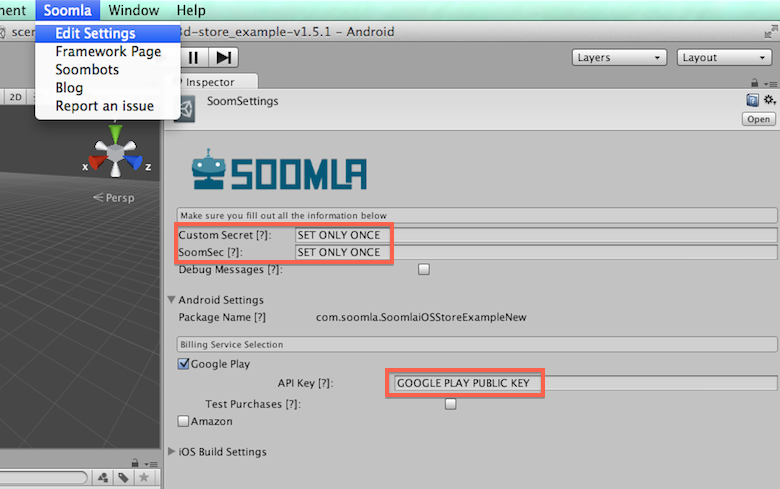
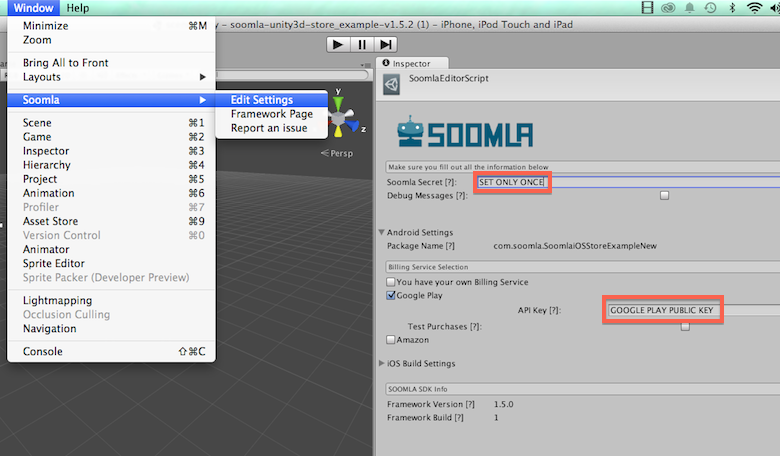
small changes

diff --git a/src/documents/docs/platforms/ios/GettingStarted.html.md b/src/documents/docs/platforms/ios/GettingStarted.html.md
@@ -16,18 +16,14 @@ Before doing anything, SOOMLA recommends that you go through [Selling with In-Ap
 
 <div class="info-box">We use ARC! Read about ARC [here](http://www.google.com/url?q=http%3A%2F%2Fen.wikipedia.org%2Fwiki%2FAutomatic_Reference_Counting&sa=D&sntz=1&usg=AFQjCNHaQBd32glc8dP7HSzlvW1RhjInQA).</div>
 
-1. Clone ios-store. Copy all files from ../ios-store/SoomlaiOSStore/SoomlaiOSStore into your iOS project:
-
- `git clone git@github.com:soomla/ios-store.git`
-
-2. The static libs and headers you need are in the folder build.
+1. The static libs and headers you need are in the [build](https://github.com/soomla/ios-store/tree/master/build) folder.
 
     - Set your project's "Library Search Paths" and "Header Search Paths" to that folder.
     - Add `-ObjC -lSoomlaiOSStore -lSoomlaiOSCore` to the project's "Other Linker Flags".
 
-3. Make sure you have the following frameworks in your application's project: **Security, libsqlite3.0.dylib, StoreKit**.
+2. Make sure you have the following frameworks in your application's project: **Security, libsqlite3.0.dylib, StoreKit**.
 
-4. Initialize Soomla with a secret that you chose to encrypt the user data. (For those who came from older versions, this should be the same as the old "custom secret"):
+3. Initialize `Soomla` with a secret that you chose to encrypt the user data saved in the DB. (For those who came from older versions, this should be the same as the old "custom secret"):
 
     ``` objectivec
     [Soomla initializeWithSecret:@"[YOUR CUSTOM GAME SECRET HERE]"];
@@ -35,11 +31,11 @@ Before doing anything, SOOMLA recommends that you go through [Selling with In-Ap
 
     <div class="info-box">The secret is your encryption secret for data saved in the DB.</div>
 
-5. Create your own implementation of `IStoreAssets` in order to describe your game's specific assets.
+4. Create your own implementation of `IStoreAssets` in order to describe your game's specific assets.
   - For a brief example, see the [example](#example) at the bottom.
-  - For a more detailed example, see our MuffinRush [example](https://github.com/soomla/ios-store/blob/master/SoomlaiOSStoreExample/SoomlaiOSStoreExample/MuffinRushAssets.m).
+  - For a more detailed example, see our [Muffin Rush Example](https://github.com/soomla/ios-store/blob/master/SoomlaiOSStoreExample/SoomlaiOSStoreExample/MuffinRushAssets.m).
 
-6. Initialize `SoomlaStore` with the class you just created:
+5. Initialize `SoomlaStore` with the class you just created:
 
     ``` objectivec
     [[SoomlaStore getInstance] initializeWithStoreAssets:[[YourStoreAssetsImplementation alloc] init]];
@@ -49,17 +45,11 @@ Before doing anything, SOOMLA recommends that you go through [Selling with In-Ap
 
 And that's it! You have Storage and in-app purchasing capabilities... ALL-IN-ONE.
 
-###Run the Example App
-
-In order for the MuffinRush Example to run, make sure that in *SoomlaiOSStoreExample > Build Settings > Linking*, the value for “Other Linker Flags” is “-ObjC”. If it’s not, add it.
-
-![alt text](/img/tutorial_img/ios_getting_started/linkerFlags.png "Linker flags")
-
-##What's next? In App Purchasing.
+##In App Purchasing
 
 SOOMLA provides two ways in which you can let your users purchase items in your game:
 
- 1. **PurchaseWithMarket** is a `PurchaseType` that allows users to purchase a `VirtualItem` via the App Store.
+ 1. **PurchaseWithMarket** is a `PurchaseType` that allows users to purchase a `VirtualItem` via the App Store. These products need to be defined in iTunesConnect.
 
  2. **PurchaseWithVirtualItem** is a `PurchaseType` that lets your users purchase a `VirtualItem` with some amount of a different `VirtualItem`. *For Example:* Buying 1 Sword with 100 Gems.
 
@@ -129,17 +119,15 @@ In order to define the way your various virtual items (Coins, swords, hats...) a
 @end
 
 
-// Initialize SoomlaStore
+// Initialization
 @implementation AppDelegate
     ...
     - (BOOL)application:(UIApplication *)application didFinishLaunchingWithOptions:(NSDictionary *)launchOptions
     {
         ...
-        // We initialize SoomlaStore when the application loads!
-        id<IStoreAssets> storeAssets = [[ExampleStoreAssets alloc] init];
-
-        // CustomSecret is a secret of your choice. You can't change it after you publish your game.
-        [[SoomlaStore getInstance] initializeWithStoreAssets:storeAssets andCustomSecret:@"ChangeMe!!!"];
+        id<IStoreAssets> storeAssets = [[MuffinRushAssets alloc] init];
+        [Soomla initializeWithSecret:@"ChangeMe!!"];
+        [[SoomlaStore getInstance] initializeWithStoreAssets:storeAssets];
         ...
     }
     ...

diff --git a/src/documents/docs/platforms/android/GettingStarted.html.md b/src/documents/docs/platforms/android/GettingStarted.html.md
@@ -14,13 +14,15 @@ Before doing anything, SOOMLA recommends that you go through [Android In-app Bil
 
 ##Get android-store
 
-1. Clone android-store. Copy all files from android-store/SoomlaAndroidStore subfolders to their equivalent folders in your Android project:
+1. Add the jars from the [build](https://github.com/soomla/android-store/tree/master/build) folder to your project.
 
-     `git clone git@github.com:soomla/android-store.git`
+    > **NOTE:** You can choose to clone android-store instead. If you choose this option, you need to add the jars from the [build](https://github.com/soomla/android-store/tree/master/build) folder, except for AndroidStore.jar.
+
+    > `git clone git@github.com:soomla/android-store.git`
 
 2. Make the following changes to your AndroidManifest.xml:
 
-      Set `SoomlaApp` as the main Application by placing it in the `application` tag:
+    Set `SoomlaApp` as the main Application by placing it in the `application` tag:
 
     ``` xml
     <application ...
@@ -39,7 +41,7 @@ Before doing anything, SOOMLA recommends that you go through [Android In-app Bil
   - See the brief [example](#example) at the bottom.
   - See a more detailed example, our MuffinRush [example](https://github.com/soomla/android-store/blob/master/SoomlaAndroidExample/src/com/soomla/example/MuffinRushAssets.java).
 
-5. Initialize `*`SoomlaStore`*` with the class you just created:
+5. Initialize `SoomlaStore` with the class you just created:
 
     ``` java
     SoomlaStore.getInstance().initialize(new YourStoreAssetsImplementation());
@@ -51,13 +53,13 @@ Before doing anything, SOOMLA recommends that you go through [Android In-app Bil
 
 And that's it! You have storage and in-app purchasing capabilities... ALL-IN-ONE.
 
-##What's next? Select a Billing Service
+##Select a Billing Service
 
-android-store can be used on all Android based devices meaning that you might want to use IAP with different billing services.
+SOOMLA's android-store can be used on all Android based devices meaning that you might want to use IAP with different billing services.
 
 We've created two billing services for you: Google Play and Amazon (according to your demand).
 
-The billing service is automatically started and stopped for every operation you're running on `StoreContoroller` (`buyWithMarket`, `restoreTransactions` ...).
+The billing service is automatically started and stopped for every operation you're running on `SoomlaStore` (`buyWithMarket`, `restoreTransactions`, etc...).
 
 Be careful with that. Don't leave the service running in the background without closing it.
 
@@ -186,7 +188,7 @@ public class ExampleStoreAssets extends IStoreAssets {
     ...
 }
 
-// Initialize SoomlaStore
+// Initialization
 public class StoreExampleActivity extends Activity {
     ...
 
@@ -196,13 +198,15 @@ public class StoreExampleActivity extends Activity {
         IStoreAssets storeAssets = new ExampleStoreAssets();
 
         // This value is a secret of your choice. You can't change it after you publish your game.
-        SoomlaStore.getInstance().initialize(storeAssets, "[CUSTOM SECRET HERE]");
+        Soomla.initialize("[CUSTOM SECRET HERE]");
+        SoomlaStore.getInstance().initialize(storeAssets);
 
         /** The following are relevant only if your Billing Provider is Google Play **/
 
         // When you create your app in Google play Developer Console, you'll find this key under the "Services & APIs" tab.
         GooglePlayIabService.getInstance().setPublicKey("[YOUR PUBLIC KEY FROM THE MARKET]");
         GooglePlayIabService.AllowAndroidTestPurchases = true;
+        ...
     }
 
     ...

diff --git a/src/documents/docs/platforms/unity/GettingStarted.html.md b/src/documents/docs/platforms/unity/GettingStarted.html.md
@@ -26,15 +26,15 @@ collection: 'platforms_unity'
 
     `git clone https://github.com/soomla/unity3d-store.git`
 
-2. Drag the "StoreEvents" Prefab from `../Assets/Soomla/Prefabs` into your scene. You should see it listed in the "Hierarchy" panel.
+2. Drag the "StoreEvents" and "CoreEvents" Prefabs from `../Assets/Soomla/Prefabs` into your scene. You should see them listed in the "Hierarchy" panel.
 
     ![alt text](/img/tutorial_img/unity_getting_started/hierarchyPanel.png "Hierarchy")
 
-3. On the menu bar click "Soomla -> Edit Settings" and change the values for "Custom Secret", "Public Key" and "Soom Sec":
+3. On the menu bar click "Window" > "Soomla" > "Edit Settings" and change the values for "Soomla Secret" and "Public Key":
 
   - **Soomla Secret** - This is an encryption secret you provide that will be used to secure your data. (If you used versions before v1.5.2 this secret MUST be the same as Custom Secret)
 
-  - **Public Key** - If your billing service provider is Google Play, you'll need to insert here the public key given to you from Google. (Learn more in step 4 [here](/docs/platforms/android/GooglePlayIAB)). **Choose both secrets wisely. You can't change them after you launch your game!**
+  - **Public Key** - If your billing service provider is Google Play, you'll need to insert the public key given to you from Google. (Learn more in step 4 [here](/docs/platforms/android/GooglePlayIAB)). **Choose both secrets wisely. You can't change them after you launch your game!**
 
       ![alt text](/img/tutorial_img/unity_getting_started/soomlaSettings.png "Soomla Settings")
 
@@ -47,7 +47,7 @@ collection: 'platforms_unity'
     ``` cs
     SoomlaStore.Initialize(new YourStoreAssetsImplementation());
     ```
-    
+
     Initialize SoomlaStore in the `Start` function of `MonoBehaviour` and NOT in the `Awake` function. SOOMLA has its own `MonoBehaviour` and it needs to be "Awakened" before you initialize.
 
     <div class="warning-box">Initialize SoomlaStore ONLY ONCE when your application loads.</div>
@@ -137,15 +137,15 @@ SOOMLA's unity3d-store knows how to contact Google Play, Amazon Appstore, or App
 
 ###Android
 
-Define your economy in Google Play or Amazon App Store.
+Define your economy in Google Play or Amazon Appstore.
 
 See our tutorials:
 
 - [Google Play](/docs/platforms/android/GooglePlayIAB)
-- [Amazon App Store](/docs/platforms/android/AmazonIAB)
+- [Amazon Appstore](/docs/platforms/android/AmazonIAB)
 
 ###iOS
 
-Define your economy in the Appstore.
+Define your economy in the App Store.
 
 See our tutorial: [App Store](/docs/platforms/ios/AppStoreIAB)

diff --git a/src/documents/docs/soomla/economy/Storage.html.md b/src/documents/docs/soomla/economy/Storage.html.md
@@ -26,11 +26,11 @@ SOOMLA keeps the game's data in an encrypted database, and uses the AES (Advance
 
 If you want to protect your game from 'bad people' (and who doesn't?!), you might want to follow some guidelines:
 
-SOOMLA keeps the game's data in an encrypted database. In order to encrypt your data, SOOMLA generates a private key out of several parts of information. The Soomla Secret (before v3.4.1 is was called customSec) is one of them. SOOMLA recommends that you provide this value when initializing SoomlaStore and before you release your game. 
+- SOOMLA keeps the game's data in an encrypted database. In order to encrypt your data, SOOMLA generates a private key out of several parts of information. The Soomla Secret (before v3.4.1 is was called customSec) is one of them. SOOMLA recommends that you provide this value when initializing SoomlaStore and before you release your game.
 
-<div class="warning-box">You can change this value once! If you try to change it again, old data from the database will become unavailable.</div>
+  <div class="warning-box">You can change this value once! If you try to change it again, old data from the database will become unavailable.</div>
 
-Following Google's recommendation, SOOMLA also recommends that you split your public key and construct it on runtime or even use bit manipulation on it in order to hide it. The key itself is not secret information but if someone replaces it, your application might receive fake messages that might harm it.
+- Following Google's recommendation, SOOMLA also recommends that you split your public key and construct it on runtime or even use bit manipulation on it in order to hide it. The key itself is not secret information but if someone replaces it, your application might receive fake messages that might harm it.
 
 ##**Useful Classes**
 To further understand how SOOMLA handles storage, below are descriptions about each of the relevant classes.

diff --git a/src/documents/docs/platforms/android/MainClasses.html.md b/src/documents/docs/platforms/android/MainClasses.html.md
@@ -14,7 +14,7 @@ Here you can find descriptions of some of the main classes and interfaces of and
 
 ##[SoomlaStore](https://github.com/soomla/android-store/blob/master/SoomlaAndroidStore/src/com/soomla/store/SoomlaStore.java)
 
-SoomlaStore holds the basic assets needed to operate the Store. You can use it to purchase products from the Market. It provides you with functionality such as querying the inventory for information, and starting a purchase process with the market (Google Play, Amazon App Store, etc…).
+SoomlaStore holds the basic assets needed to operate the Store. You can use it to purchase products from the Market. It provides you with functionality such as querying the inventory for information, and starting a purchase process with the market (Google Play, Amazon Appstore, etc…).
 
 <div class="info-box">This is the only class you need to initialize in order to use the SOOMLA SDK. More about this in [Getting Started](/docs/platforms/android/GettingStarted).</div>
 

diff --git a/src/documents/docs/platforms/android/EconomyModel.html.md b/src/documents/docs/platforms/android/EconomyModel.html.md
@@ -55,7 +55,7 @@ public static final VirtualCurrencyPack THOUSANDMUFF_PACK = new VirtualCurrencyP
 );
 ```
 
-<div class="info-box">The `productId` that is used to define a new `MarketItem` must must match the product ID defined in the Market (Google Play, Amazon Store, etc..).</div>
+<div class="info-box">The `productId` that is used to define a new `MarketItem` must must match the product ID defined in the Market (Google Play, Amazon Appstore, etc..).</div>
 
 ###[PurchaseWithVirtualItem](https://github.com/soomla/android-store/blob/master/SoomlaAndroidStore/src/com/soomla/store/purchaseTypes/PurchaseWithVirtualItem.java)
 
